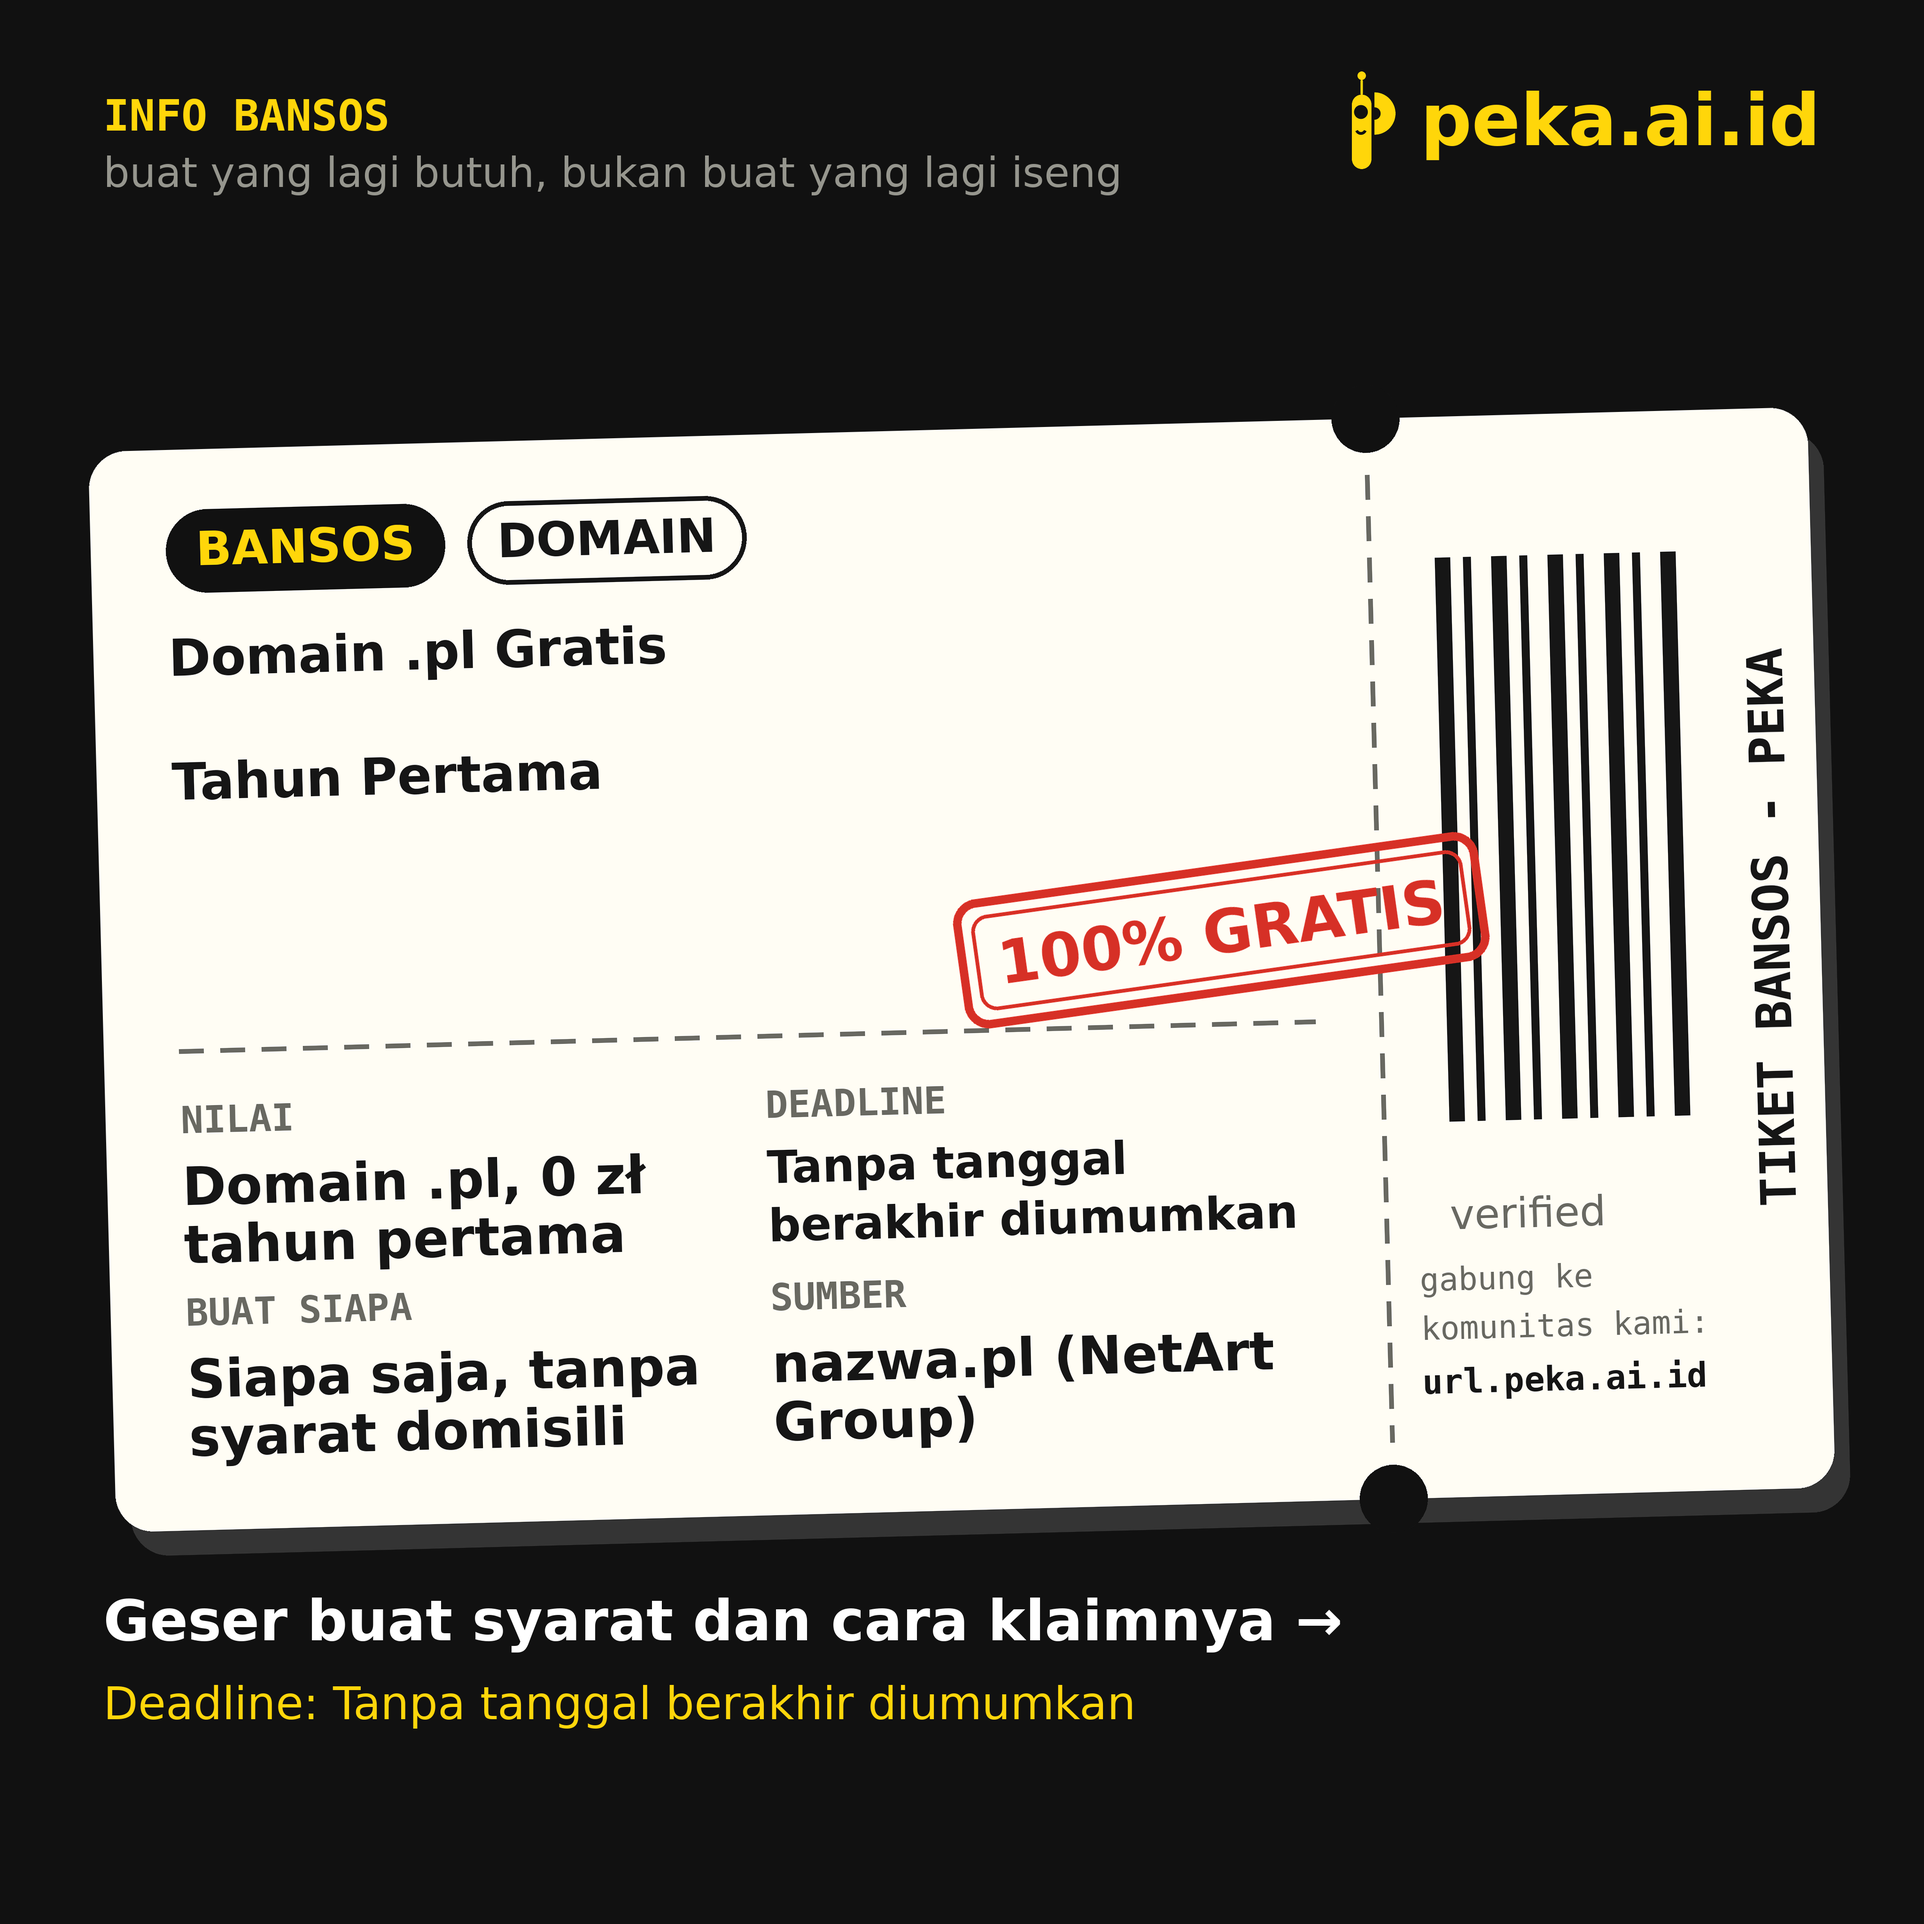
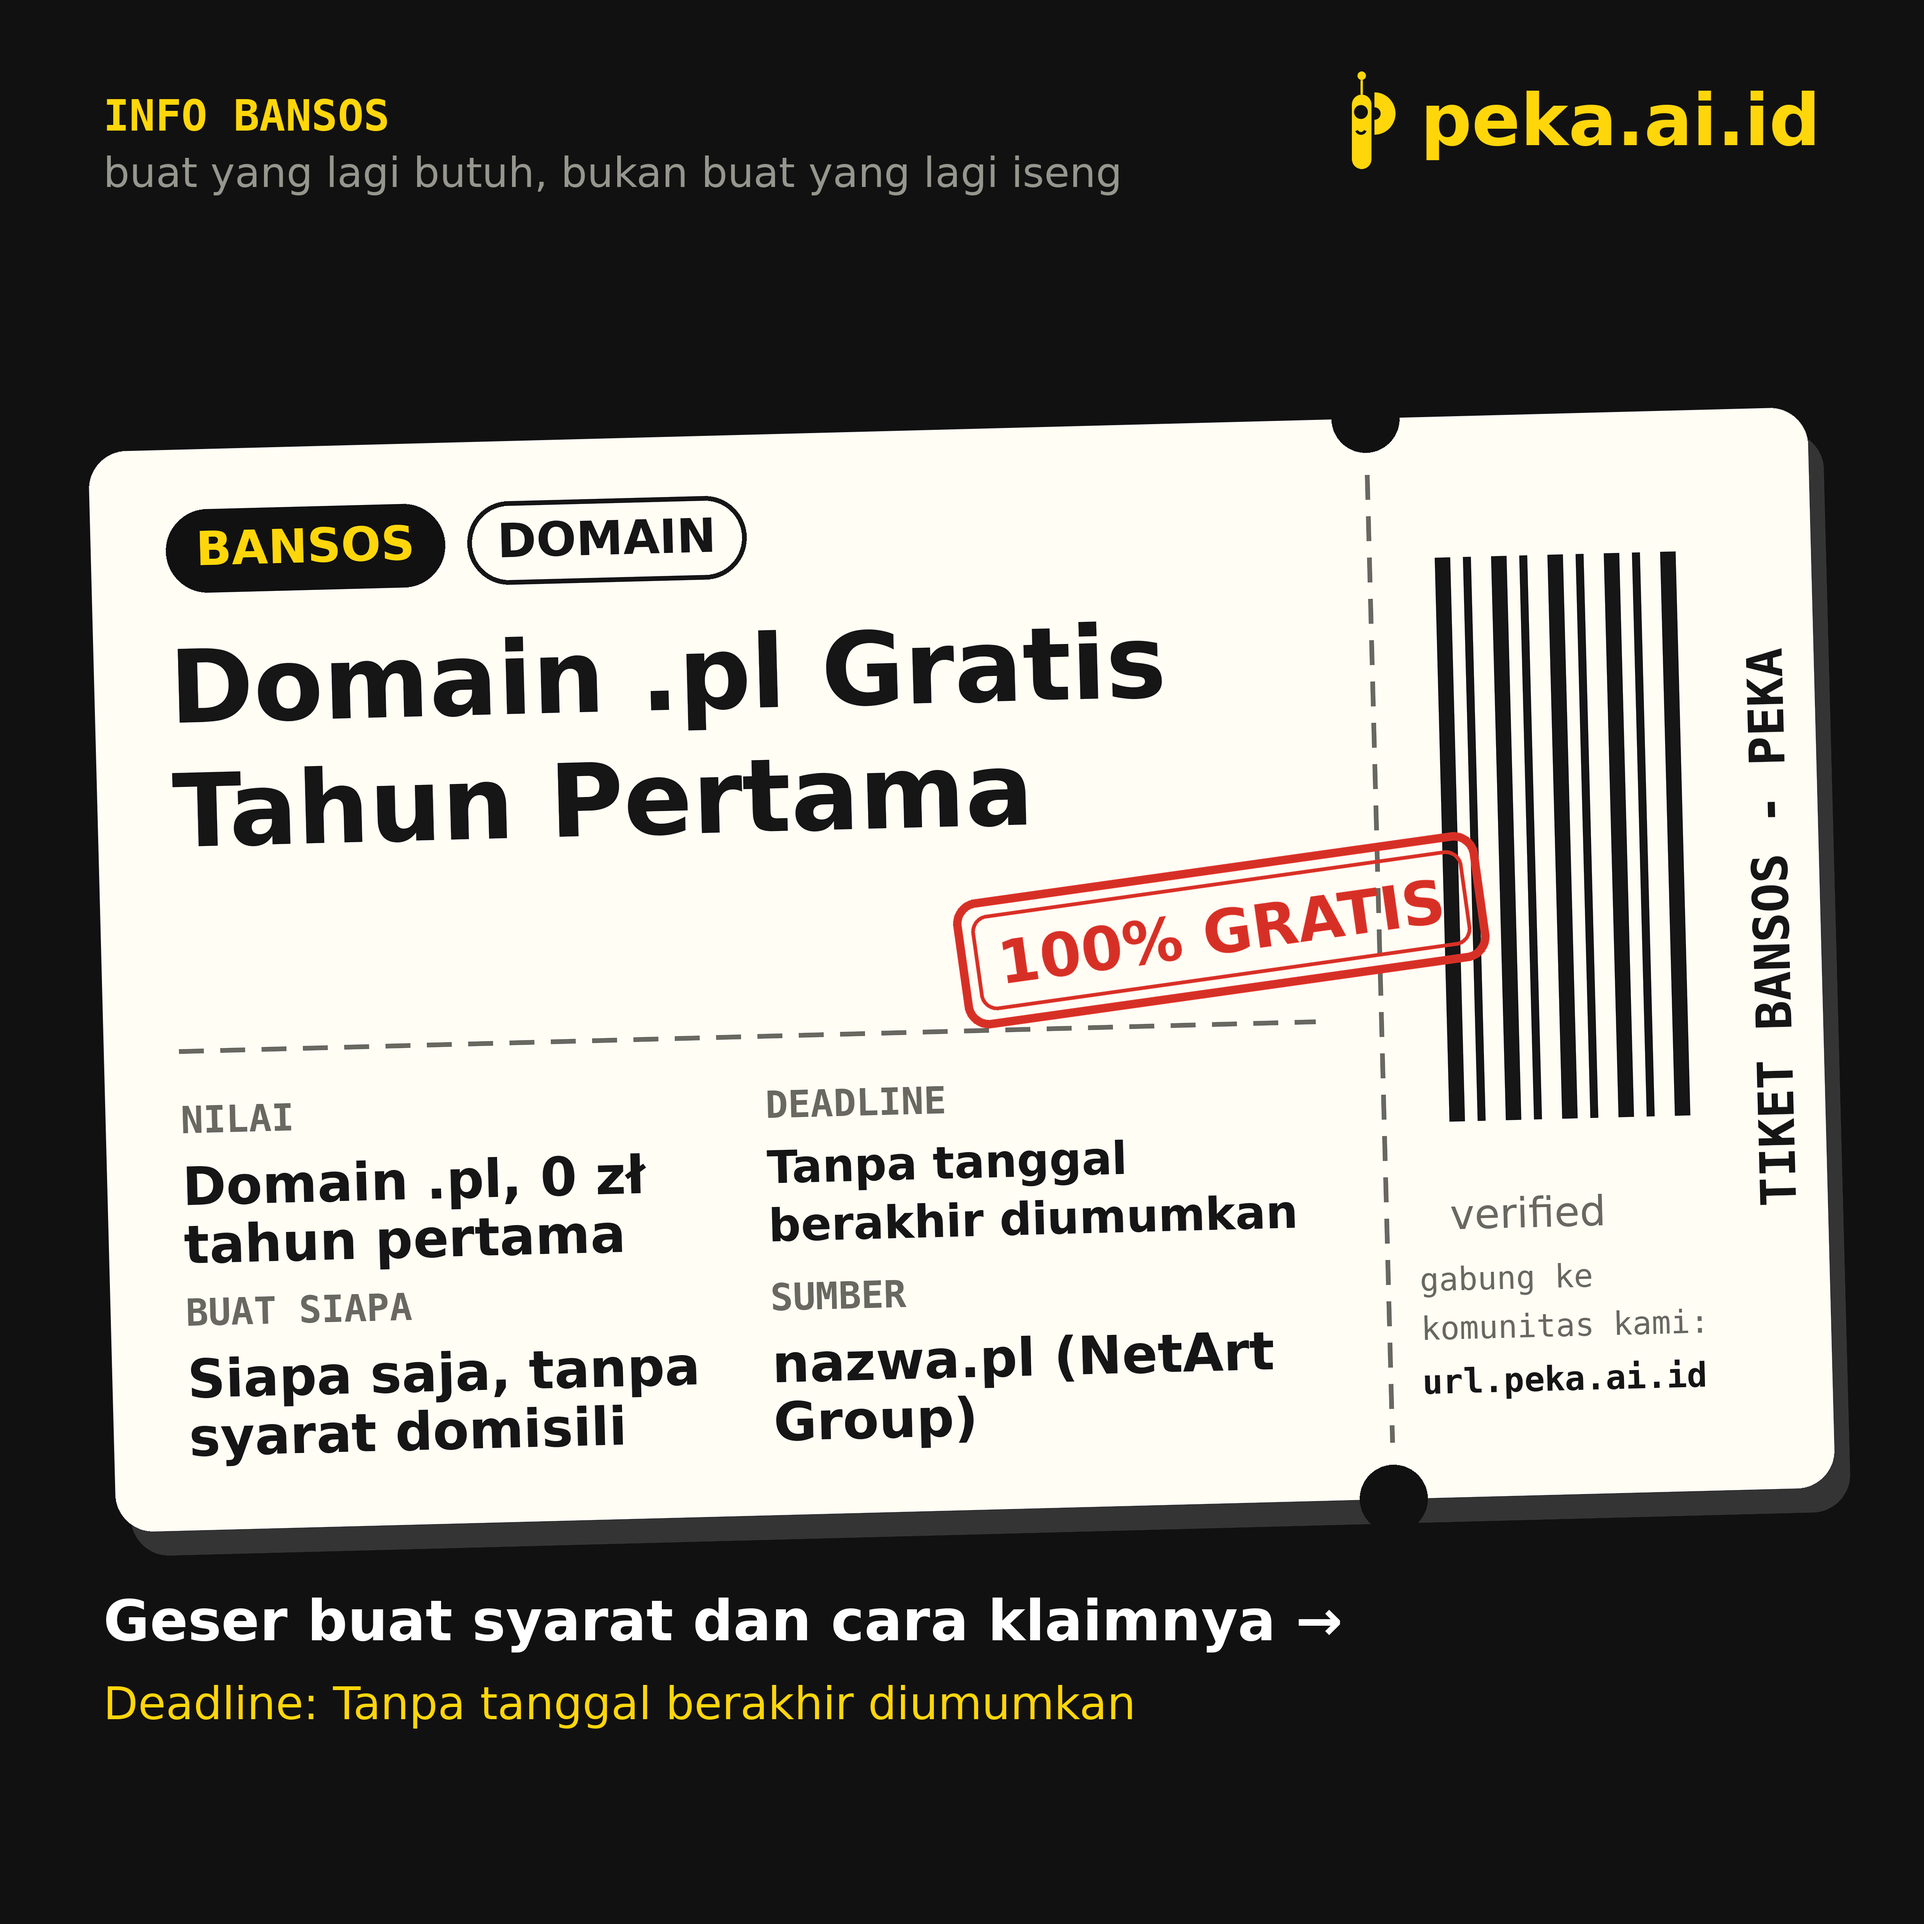
Auto sync 2026-11-11 22:52

Changed region(s): [[0.0938, 0.3125, 0.625, 0.4375]]

diff --git a/bansos/bansos_design.py b/bansos/bansos_design.py
@@ -320,7 +320,7 @@ def slide1(spec):
         raise SystemExit("OVERFLOW: program title wraps to >3 lines")
     ty = oy + 380
     for ln in title_lines:
-        ld.text((mx, ty), ln, font=f(108), fill=PAL["ink"])
+        ld.text((mx, ty), ln, font=f(216), fill=PAL["ink"])
         ty += 264
 
     dashed_h(ld, oy + 1280, mx, perf_x - 140, PAL["muted"])

diff --git a/bansos/out/2026-11-12-domain-pl-nazwa/fix_slide2.py b/bansos/out/2026-11-12-domain-pl-nazwa/fix_slide2.py
@@ -320,7 +320,7 @@ def slide1(spec):
         raise SystemExit("OVERFLOW: program title wraps to >3 lines")
     ty = oy + 380
     for ln in title_lines:
-        ld.text((mx, ty), ln, font=f(108), fill=PAL["ink"])
+        ld.text((mx, ty), ln, font=f(216), fill=PAL["ink"])
         ty += 264
 
     dashed_h(ld, oy + 1280, mx, perf_x - 140, PAL["muted"])
